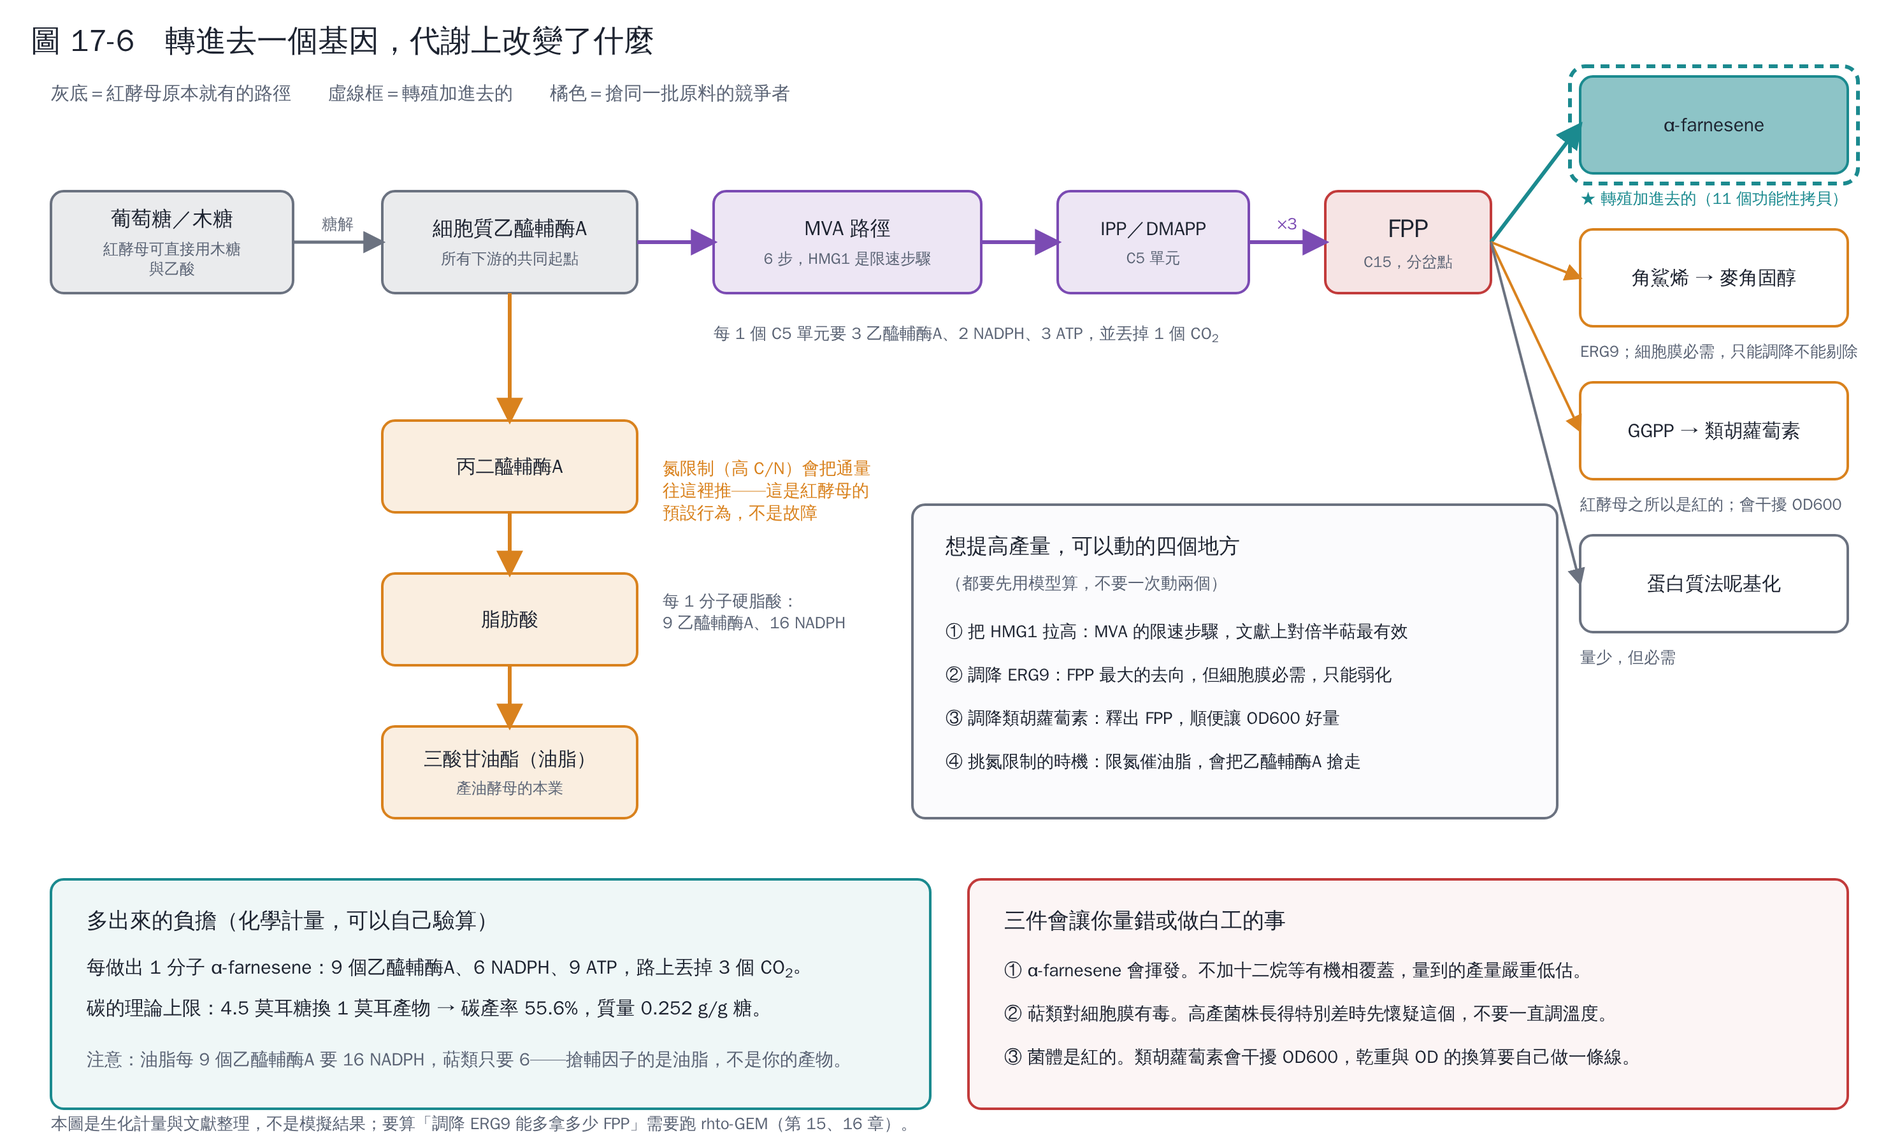
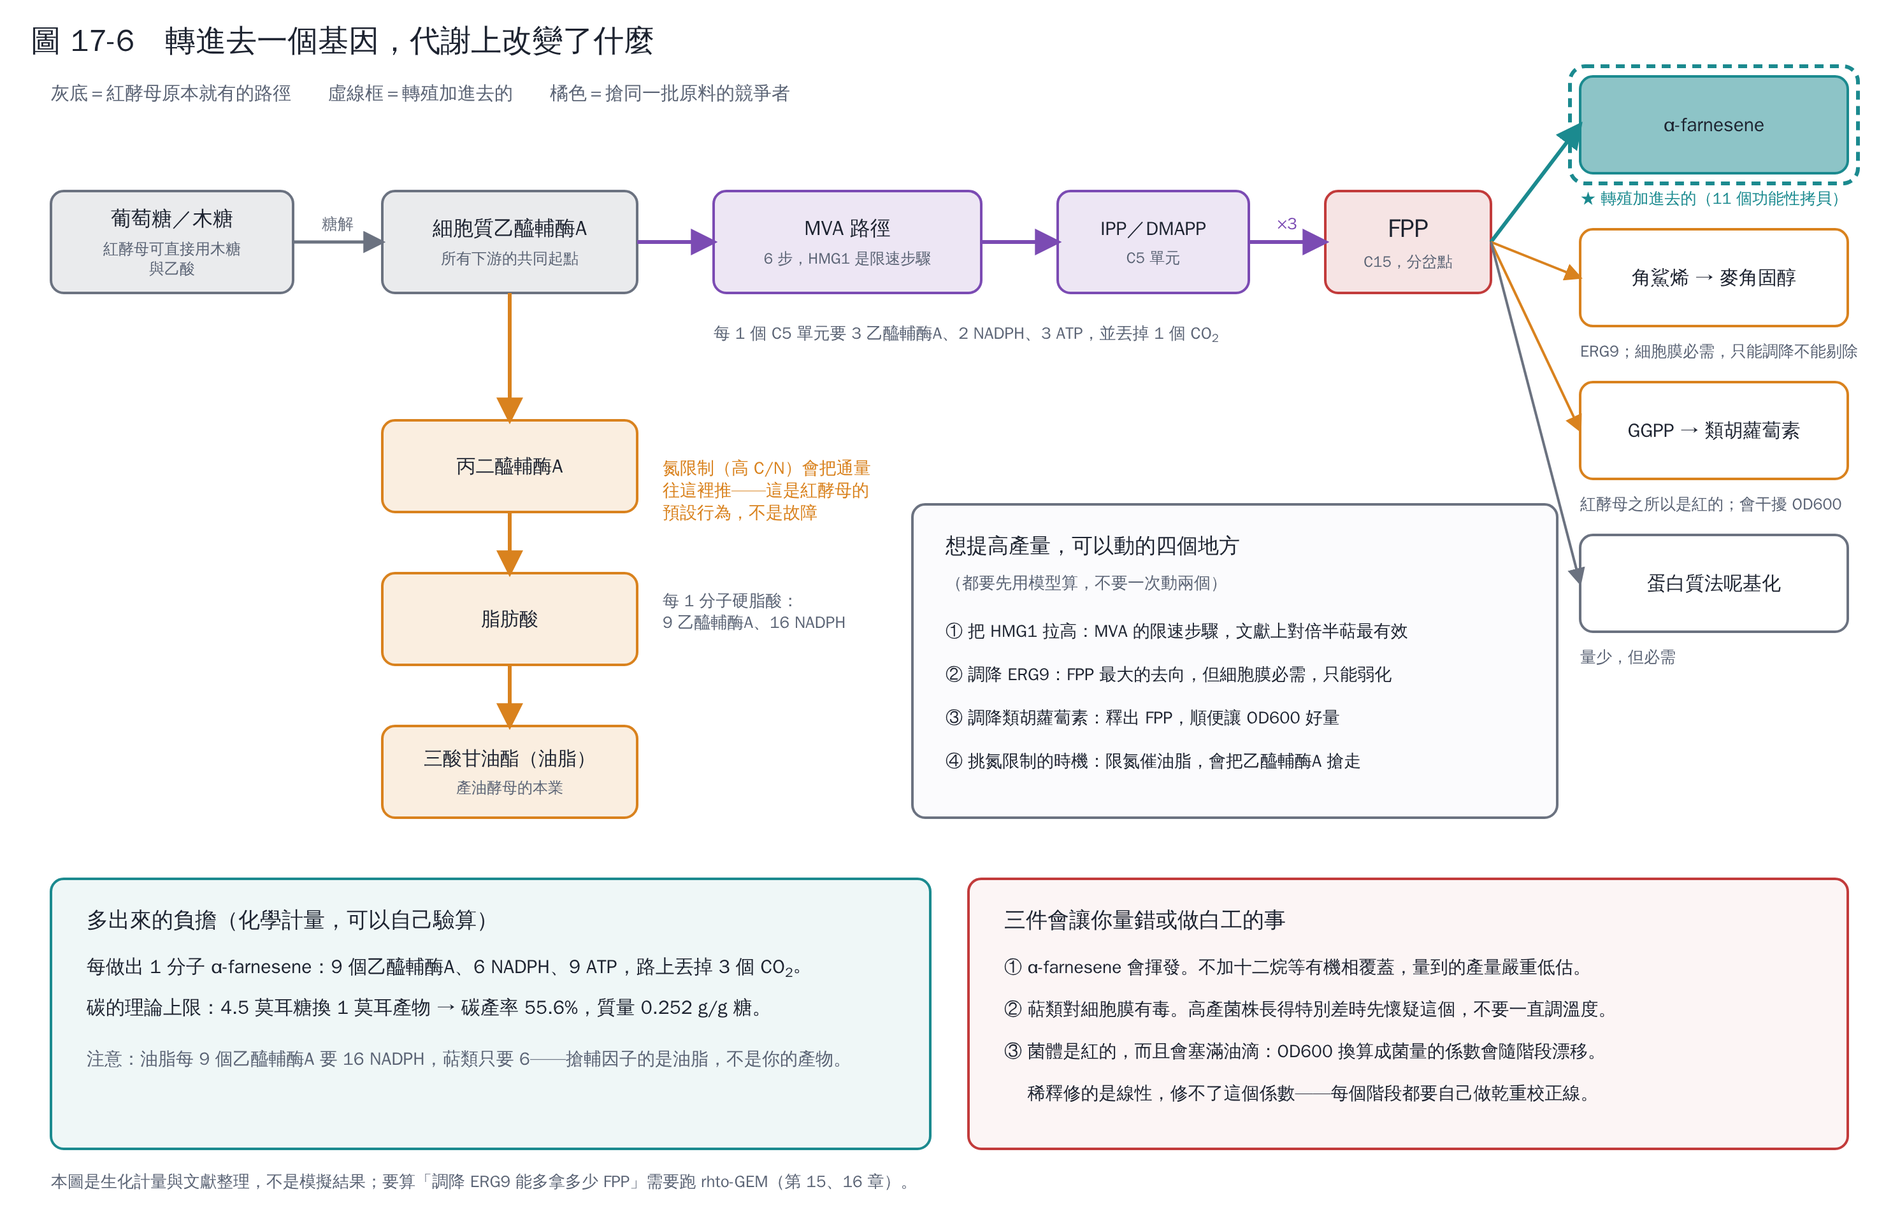
第 17 章補三件事：載體殘跡、模體掃描的否定結果、OD600
- 17.4 新增：送去 BLAST 之前要先把載體殘跡切掉。原本切出來的
  「啟動子」前 216 bp 是 pUC／M13 的 lac 區段加 HindIII／AscI，
  帶著比對只會命中一堆選殖載體。切乾淨後 P1 是 1,000 bp、P2 816 bp
- 17.4 新增 promoter_scan.py：數啟動子上的 GATA（AreA／Nit2）等模體，
  和宿主基因體隨機 2,000 段同長度片段比較。結果是**沒有結論**——
  P1 的 GATA 位點是 0，但宿主隨機 1 kb 也有 47.6% 的機會是 0。
  照實寫出來，因為這種分析最容易被過度解讀
- 17.8 新增「為什麼稀釋救不了 OD600」：稀釋修的是讀值線性，
  修不了 OD→乾重的係數；色素與油滴讓係數隨培養階段漂移，
  每個階段都要自己做校正線。圖 17-6 的對應說明也一起改了

Claude-Session: https://claude.ai/code/session_01TPzWKFdej1zHQvUV5Wdwzb

diff --git a/lessons/dna-to-culture/code/promoter_scan.py b/lessons/dna-to-culture/code/promoter_scan.py
@@ -1,0 +1,127 @@
+"""第 17 章：在不能連資料庫的情況下，從啟動子序列本身能看出什麼。
+
+為什麼要有這支程式：構築上的兩個啟動子**不在宿主基因體裡**，所以不知道是哪個
+基因的啟動子，也就不知道它是組成型還是受調控——而這件事會決定分階段培養要不要
+限氮（第 6、17 章）。BLAST 要連網，這個環境做不到。
+
+退而求其次能做的是：數出啟動子上幾個關鍵轉錄因子結合模體的數量，並和**宿主自己
+的基因體**隨機抽樣的同長度片段比較，看是不是顯著偏多。這是線索，不是答案：
+模體序列很短，隨機序列本來就會出現，所以一定要和背景比，而且**結論仍然要用
+BLAST 與 RT-qPCR 確認**。
+
+執行：python promoter_scan.py --construct construct.fasta --genome MUT.fasta
+"""
+
+from __future__ import annotations
+
+import argparse
+import json
+import random
+import re
+import statistics
+from pathlib import Path
+
+import genome_tools as gt
+
+HERE = Path(__file__).resolve().parent
+
+# 真菌啟動子上意義明確、而且和「要不要限氮」直接相關的幾個模體。
+MOTIFS = [
+    ("TATA box", r"TATA[AT]A[AT]", "基礎轉錄起始；強組成型啟動子常見"),
+    ("GATA（AreA／Nit2）", r"[ACT]GATA[AG]", "**氮代謝阻遏的總開關**；氮限制時 AreA 活化這類位點"),
+    ("CCAAT（Hap 複合體）", r"CCAAT", "呼吸／碳源相關的通用活化元件"),
+    ("STRE（AGGGG）", r"AGGGG", "逆境與進入靜止期時活化（Msn2/4 類）"),
+    ("CreA／碳代謝阻遏", r"[CG][CT]GG[AG]G", "葡萄糖存在時抑制"),
+]
+GATA_CORE = r"[ACT]GATA[AG]"
+PAIR_WINDOW = 50   # AreA 要兩個鄰近的 GATA 位點才有強活化力
+
+
+def count_both_strands(seq: str, pattern: str) -> int:
+    """正負股都數，允許重疊（用 lookahead）。"""
+    rx = re.compile("(?=(" + pattern + "))")
+    return len(rx.findall(seq)) + len(rx.findall(gt.rc(seq)))
+
+
+def gata_pairs(seq: str, window: int = PAIR_WINDOW) -> int:
+    pos = []
+    for s in (seq, gt.rc(seq)):
+        pos += [m.start() for m in re.finditer("(?=(" + GATA_CORE + "))", s)]
+    pos.sort()
+    return sum(1 for a, b in zip(pos, pos[1:]) if b - a <= window)
+
+
+def background(genome_path, length: int, n: int, seed: int = 0):
+    """從宿主基因體隨機抽 n 段同樣長度的序列當背景。"""
+    rng = random.Random(seed)
+    contigs = [(name, s.upper()) for name, s in gt.read_fasta(genome_path) if len(s) > length * 4]
+    weights = [len(s) for _, s in contigs]
+    out = []
+    for _ in range(n):
+        _, s = rng.choices(contigs, weights=weights)[0]
+        i = rng.randrange(0, len(s) - length)
+        frag = s[i:i + length]
+        if frag.count("N") == 0:
+            out.append(frag)
+    return out
+
+
+def describe(name: str, seq: str, bg: list[str]) -> dict:
+    row = {"name": name, "length": len(seq), "gc_pct": round(gt.gc_pct(seq), 1), "motifs": []}
+    for label, pat, why in MOTIFS:
+        obs = count_both_strands(seq, pat)
+        vals = sorted(count_both_strands(b, pat) for b in bg)
+        row["motifs"].append({"motif": label, "why": why, "observed": obs,
+                              "bg_median": statistics.median(vals),
+                              "bg_p95": vals[int(0.95 * len(vals))],
+                              "bg_frac_le": round(sum(1 for v in vals if v <= obs) / len(vals), 3),
+                              "bg_frac_ge": round(sum(1 for v in vals if v >= obs) / len(vals), 3)})
+    obs = gata_pairs(seq)
+    vals = sorted(gata_pairs(b) for b in bg)
+    row["gata_pairs"] = {"observed": obs, "bg_median": statistics.median(vals),
+                         "bg_p95": vals[int(0.95 * len(vals))],
+                         "bg_frac_le": round(sum(1 for v in vals if v <= obs) / len(vals), 3),
+                         "bg_frac_ge": round(sum(1 for v in vals if v >= obs) / len(vals), 3)}
+    return row
+
+
+def main(argv=None):
+    ap = argparse.ArgumentParser(description=__doc__, formatter_class=argparse.RawDescriptionHelpFormatter)
+    ap.add_argument("--construct", required=True)
+    ap.add_argument("--genome", required=True, help="宿主基因體（拿來當背景分布）")
+    ap.add_argument("--regions", nargs="+", default=["P1:366:1366", "P2:3374:4190"],
+                    help="要掃的區段，格式 名稱:起:迄（構築座標）")
+    ap.add_argument("--n", type=int, default=2000, help="背景抽樣數")
+    ap.add_argument("--out", default=str(HERE / "promoter_scan.json"))
+    args = ap.parse_args(argv)
+
+    con = gt.read_fasta(args.construct)[0][1].upper()
+    rows = []
+    for spec in args.regions:
+        name, a, b = spec.split(":")
+        a, b = int(a), int(b)
+        seq = con[a:b]
+        bg = background(args.genome, len(seq), args.n)
+        print(f"\n=== {name}　構築 {a:,}–{b:,}（{len(seq):,} bp，GC {gt.gc_pct(seq):.1f}%）"
+              f"　背景：宿主隨機 {len(bg)} 段 ===")
+        row = describe(name, seq, bg)
+        row.update({"c0": a, "c1": b})
+        print(f'{"模體":22s}{"實測":>6s}{"背景中位數":>10s}{"背景 p95":>9s}'
+              f'{"背景≤實測":>11s}{"背景≥實測":>11s}')
+        for m in row["motifs"] + [dict(motif="GATA 成對（≤50 bp）", **row["gata_pairs"])]:
+            print(f'{m["motif"]:22s}{m["observed"]:6d}{m["bg_median"]:10.1f}{m["bg_p95"]:9d}'
+                  f'{m["bg_frac_le"] * 100:10.1f}%{m["bg_frac_ge"] * 100:10.1f}%')
+        rows.append(row)
+
+    Path(args.out).write_text(json.dumps({"regions": rows, "n_background": args.n,
+                                          "motifs": [{"motif": m, "pattern": p, "why": w}
+                                                     for m, p, w in MOTIFS]},
+                                         ensure_ascii=False, indent=1), "utf-8")
+    print(f"\n寫入 {args.out}")
+    print("提醒：模體只有 5–6 bp，隨機序列本來就會出現，所以百分位才是重點。"
+          "\n就算某個模體顯著偏多，也只是線索——啟動子的身分要靠 BLASTn，"
+          "\n實際受不受氮調控要靠不同 C/N 下的 RT-qPCR。")
+
+
+if __name__ == "__main__":
+    main()

diff --git a/lessons/dna-to-culture/figures/src/diagrams.py b/lessons/dna-to-culture/figures/src/diagrams.py
@@ -790,7 +790,7 @@ def fig17_pathway():
     d = json.loads((CODE / "farnesene_path.json").read_text("utf-8"))
     f = d["per_farnesene"]
     gy = d["yield"]["glucose"]
-    s = Svg(1480, 900, "圖 17-6　轉進去一個基因，代謝上改變了什麼")
+    s = Svg(1480, 950, "圖 17-6　轉進去一個基因，代謝上改變了什麼")
     s.text(40, 78, "灰底＝紅酵母原本就有的路徑　　虛線框＝轉殖加進去的　　橘色＝搶同一批原料的競爭者",
            size=14.5, color=MUTED)
 
@@ -844,7 +844,7 @@ def fig17_pathway():
             "③ 調降類胡蘿蔔素：釋出 FPP，順便讓 OD600 好量",
             "④ 挑氮限制的時機：限氮催油脂，會把乙醯輔酶A 搶走"]):
         s.text(742, 500 + i * 34, line, size=13.5)
-    s.box(40, 690, 690, 180, "", color=TEAL, fill=tint(TEAL, 0.93))
+    s.box(40, 690, 690, 212, "", color=TEAL, fill=tint(TEAL, 0.93))
     s.text(68, 728, "多出來的負擔（化學計量，可以自己驗算）", size=17, weight=700)
     s.text(68, 764, f'每做出 1 分子 α-farnesene：{f["acetyl_coa"]} 個乙醯輔酶A、'
                     f'{f["nadph"]} NADPH、{f["atp"]} ATP，路上丟掉 {f["co2"]} 個 CO_2_。', size=15)
@@ -853,14 +853,15 @@ def fig17_pathway():
     s.text(68, 836, "注意：油脂每 9 個乙醯輔酶A 要 16 NADPH，萜類只要 6——"
                     "搶輔因子的是油脂，不是你的產物。", size=14, color=MUTED)
 
-    s.box(760, 690, 690, 180, "", color=RED, fill=tint(RED, 0.95))
+    s.box(760, 690, 690, 212, "", color=RED, fill=tint(RED, 0.95))
     s.text(788, 728, "三件會讓你量錯或做白工的事", size=17, weight=700)
     for i, line in enumerate([
             "① α-farnesene 會揮發。不加十二烷等有機相覆蓋，量到的產量嚴重低估。",
             "② 萜類對細胞膜有毒。高產菌株長得特別差時先懷疑這個，不要一直調溫度。",
-            "③ 菌體是紅的。類胡蘿蔔素會干擾 OD600，乾重與 OD 的換算要自己做一條線。"]):
-        s.text(788, 766 + i * 34, line, size=14)
-    s.text(40, 886, "本圖是生化計量與文獻整理，不是模擬結果；要算「調降 ERG9 能多拿多少 FPP」"
+            "③ 菌體是紅的，而且會塞滿油滴：OD600 換算成菌量的係數會隨階段漂移。",
+            "　 稀釋修的是線性，修不了這個係數——每個階段都要自己做乾重校正線。"]):
+        s.text(788, 764 + i * 33, line, size=14)
+    s.text(40, 932, "本圖是生化計量與文獻整理，不是模擬結果；要算「調降 ERG9 能多拿多少 FPP」"
                     "需要跑 rhto-GEM（第 15、16 章）。", size=13, color=MUTED)
     return s
 

diff --git a/lessons/dna-to-culture/17-case-study.md b/lessons/dna-to-culture/17-case-study.md
@@ -85,9 +85,44 @@ python code/case_rt.py --wt WT.fasta --mut MUT.fasta --construct construct.fasta
 
 **構築 11,647 bp 沒有任何一段來自這株紅酵母的基因體。**
 
-所以 P1（1,216 bp）和 P2（840 bp）**不是這株菌的原生啟動子**，也不是 CaMV 35S、不是 nos promoter、不是 *A. nidulans* trpC（都逐條比對過）。它們可能來自另一種真菌、另一株紅酵母，或是合成啟動子。
+所以 P1 和 P2 **不是這株菌的原生啟動子**，也不是 CaMV 35S、不是 nos promoter、不是 *A. nidulans* trpC（都逐條比對過）。它們可能來自另一種真菌、另一株紅酵母，或是合成啟動子。
 
-這不是學術細節——**啟動子決定 AFS 什麼時候表現**。如果它是組成型，那麼第 6 章的氮限制階段裡 AFS 仍在表現，但乙醯輔酶 A 正被油脂合成搶走；如果它受氮或碳源調控，分階段的設計就完全不同。**所以這是做任何培養最適化之前要先查清楚的事**（把序列貼到 NCBI BLASTn，或直接問構築的來源實驗室）。
+這不是學術細節——**啟動子決定 AFS 什麼時候表現**。如果它是組成型，那麼第 6 章的氮限制階段裡 AFS 仍在表現，但乙醯輔酶A 正被油脂合成搶走；如果它受氮或碳源調控，分階段的設計就完全不同。
+
+### 要送去 BLAST 之前，先把載體殘跡切掉
+
+第一次切出來的「P1」有 1,216 bp，但前面 216 bp 其實是 **pUC／M13 的 lac 區段加上 HindIII、AscI 選殖位**：
+
+```
+…GGGTAACGCCAGGGTTTTCCCAGTCACGACGTTGTAAAACGACGGCCAGT  ← M13 -20 引子結合區
+GCCAAGCTT GGCGCGCC  ← HindIII、AscI，真正的啟動子從這裡開始
+```
+
+帶著這段去 BLAST，命中的會是一整頁的選殖載體，真正的啟動子會被洗掉。**切乾淨之後的 P1 是 1,000 bp（構築 366–1,366），P2 是 816 bp（構築 3,374–4,190）。**
+
+> 這是一個通用的實務點：**任何要送資料庫比對的片段，都先確認它不含載體骨架**。NCBI 有 VecScreen 可以自動檢查。
+
+### 連不上資料庫時，能從序列本身看出什麼？（結論：看不出來）
+
+教材的執行環境沒有對外網路，所以我退一步做了能在本機做的事：數出啟動子上幾個關鍵轉錄因子結合模體的數量，拿**宿主基因體隨機抽樣的 2,000 段同長度片段**當背景比較（程式 `code/promoter_scan.py`）。最關心的是 **GATA（AreA／Nit2）**——真菌氮代謝阻遏的總開關，如果啟動子受氮限制調控，這裡通常會有成簇的 GATA 位點。
+
+| 模體 | P1 實測 | 宿主背景中位數 | 背景 ≤ 實測的比例 |
+|---|---|---|---|
+| GATA（AreA／Nit2） | **0** | 1 | 47.6% |
+| GATA 成對（≤50 bp） | **0** | 0 | 96.3% |
+| TATA box | 0 | 0 | 97.7% |
+| CCAAT（Hap） | 0 | 0 | 51.2% |
+
+**這個結果什麼都證明不了。** P1 沒有 GATA 位點，但宿主基因體裡隨機抓一段 1,000 bp，也有 47.6% 的機會一個都沒有。換句話說，觀察到 0 個完全在背景的正常範圍內——**既不能說它受氮調控，也不能說它不受**。
+
+把這件事寫出來，是因為這種分析很容易被過度解讀。模體只有 5–6 bp，隨機序列本來就會出現；**沒有和背景比，任何模體數量都沒有意義**。這一節是一個「做了但沒有結論」的例子，而沒有結論本身就是結論——不要拿它去支持任何培養策略。
+
+### 所以還是得做這兩件事
+
+1. **BLASTn**（`blastn` 對 `nr/nt`，用切乾淨的 1,000 bp）→ 知道它是哪個基因的上游、來自哪個物種。
+2. **不同 C/N 下的 RT-qPCR** → 不管 BLAST 說什麼，這才是「AFS 在限氮階段還有沒有在表現」的直接答案。文獻說某個啟動子是組成型，不代表在你的培養條件、你的插入位置、12 個串聯拷貝的情況下也是。
+
+第 2 件事其實比第 1 件重要，而且它就是第 11 章說的「把實測數據餵回模型」——只是餵的是表現量而不是生長曲線。
 
 ## 17.5 染色體上的實際排列
 
@@ -187,7 +222,32 @@ FPP 原本有三個去向，現在多了第四個：
 
 1. **α-farnesene 會揮發**。不加十二烷等有機相覆蓋收集，量到的產量嚴重低估 [3]。
 2. **萜類對細胞膜有毒**。高產菌株長得特別差時先懷疑產物毒性，不要一直調溫度和 pH。有機相覆蓋同時也有解毒作用。
-3. **菌體是紅的**。類胡蘿蔔素會干擾 OD600，乾重與 OD 的換算要自己做一條校正線（第 10 章的 `OD_TO_GDW` 不能照抄）。
+3. **菌體是紅的**。這件事比看起來麻煩，下面單獨說。
+
+### 為什麼稀釋救不了 OD600
+
+很多人以為「稀釋 40 倍讓讀值回到 0.1–0.5 就沒問題了」。稀釋解決的是**另一個**問題。
+
+這裡其實有兩個獨立的問題：
+
+| 問題 | 原因 | 稀釋有沒有用 |
+|---|---|---|
+| **讀值不線性** | OD 太高時光被散射很多次，讀到的值比真實值低 | **有用。** 這正是稀釋要解決的事——把讀值拉回 0.1–0.5 的線性區 |
+| **OD 換算成菌量的係數不對** | 紅酵母的色素與油滴改變了每個細胞的光學性質 | **沒有用。** 稀釋把散射和吸收**同時**除以 40，比值完全沒變 |
+
+OD600 量的主要是**散射**不是吸收。類胡蘿蔔素（β-胡蘿蔔素、torulene、torularhodin）的吸收峰在 450–550 nm，在 600 nm 只剩尾巴——所以色素的**直接吸收**貢獻不大。真正會害你的是第二層：
+
+- **色素與油滴改變了細胞的散射特性**。氮限制階段細胞塞滿油滴，折射率和大小都變了，**同樣 1 g 乾重的菌，OD600 讀出來就是不一樣**。
+- 而且這個偏差**會隨培養階段漂移**：長菌期和產油期的 OD→乾重係數不同。一條在長菌期做的校正線，用到產油期就是錯的。
+- 基改株和野生株的色素量也可能不同，**拿 OD 直接比較兩株的「生物量」是不成立的**。
+
+所以要這樣做：
+
+1. **稀釋照做**，目的是維持線性，不是為了修正色素。
+2. **自己做 OD600 ↔ 乾重校正線**，而且**每個培養階段各做一條**（至少長菌期與產油期各一）。第 10 章的 `OD_TO_GDW = 0.35` 是大腸桿菌的示範值，**不能照抄**。
+3. **乾重才是基準**，OD 只當線上代理指標，每批至少取 3–4 個點用乾重錨定。
+4. 想降低色素的直接吸收，可以**改量 700 nm 或 750 nm**（色素在那裡幾乎不吸收）。這能減掉吸收那一項，但**減不掉油滴造成的散射變化**——校正線還是得做。
+5. 順帶一提：OD600 與 OD750 的**比值**反而可以當作色素含量的粗略指標，想追蹤類胡蘿蔔素被調降了多少時很好用。
 
 > **這一節是生化計量與文獻整理，不是模擬結果。** 反應式與輔因子化學計量是課本等級、可以驗算的；至於「調降 ERG9 能多拿多少 FPP」「11 個拷貝夠不夠把 FPP 抽乾」這種定量問題，要跑 rhto-GEM 才能回答（第 15、16 章）。
 
@@ -230,6 +290,9 @@ python code/genome_tools.py orfs novel.fasta --prot candidates.faa
 
 # 4. 有構築序列的話，直接把它對回基因體
 python code/genome_tools.py construct construct.fasta MUT.fasta
+
+# 5. 啟動子的模體掃描（要和宿主背景比才有意義）
+python code/promoter_scan.py --construct construct.fasta --genome MUT.fasta
 ```
 
 第 4 步是這一章的主角：它會輸出每一段整合片段、每個構築座標整合了幾份、以及 border 等已知元件的位置。**有構築序列和沒有構築序列，分析的品質差很多**——沒有它只能說「有個 5,385 bp 的重複單元」，有了它才能說「那是 T-DNA，骨架進去 2–3 份，第 3 個拷貝斷在第 530 個密碼子」。
@@ -245,6 +308,9 @@ python code/genome_tools.py construct construct.fasta MUT.fasta
 - T-DNA 與骨架的份數差異（11–12 份 vs 2–3 份）本身就是轉形機制的證據，也是菌株紀錄裡該寫的事。
 - **轉一個基因進去，改變的不只是多一條反應**：AFS 把 FPP 從三個去向搶成四個，上游的乙醯輔酶A 還要和油脂競爭。每 1 分子產物要 9 個乙醯輔酶A、6 NADPH、9 ATP，碳的理論上限 55.6%（0.252 g/g 糖）。
 - 油脂每 9 個乙醯輔酶A 要 16 NADPH，萜類只要 6——**搶輔因子的是油脂，不是你的產物**。氮限制催油脂，所以分階段策略要和啟動子的調控性質一起決定。
+- **送資料庫比對之前先把載體殘跡切掉**。我第一次切出來的「啟動子」前面 216 bp 是 pUC／M13，帶著去 BLAST 只會命中一堆選殖載體。
+- **模體掃描沒有和背景比就沒有意義**。P1 一個 GATA 位點都沒有，但宿主基因體隨機 1 kb 也有 47.6% 的機會是 0——這個分析做了，但沒有結論，而沒有結論也要照實寫。
+- **稀釋救不了 OD600**。稀釋修的是線性，不是 OD→乾重的係數；色素與油滴讓這個係數隨階段漂移，每個階段都要自己做校正線。
 - 這一章能回答「在不在、在哪裡、對不對、幾份（下限）」，回答不了「表現量與活性」。後者要 RT-qPCR 與產物量測，也就是第 11 章要餵回模型的那些數據。
 
 ## 參考文獻
